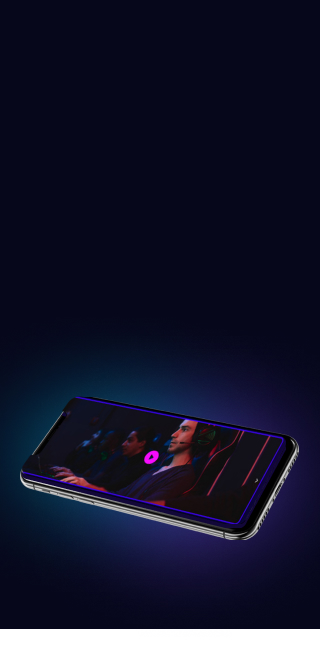
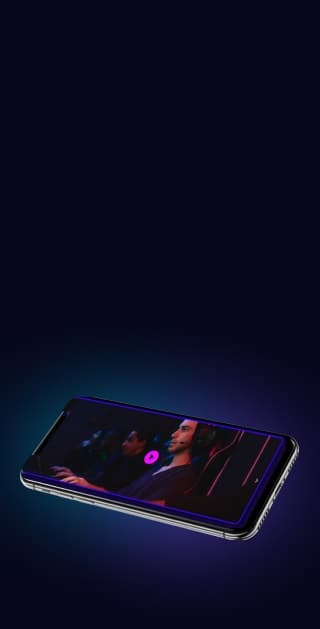
add entero-link

Changed region(s): [[0.0625, 0.6041, 0.9375, 0.876], [0.0, 0.9364, 1.0, 1.0]]

diff --git a/src/sass/_video.scss b/src/sass/_video.scss
@@ -3,10 +3,10 @@
 }
 .video__conteiner {
   margin: 0 auto;
-  padding: 0 20px;
+  padding: 40px 20px;
   height: 629px;
   background-color: #06071b;
-  background-image: url(../images/video/bg-mobile.jpg);
+  background-image: url(../images/video/bg-video-mobile.jpg);
   background-repeat: no-repeat;
   background-size: cover;
   background-position: bottom;
@@ -38,6 +38,46 @@
   font-weight: 500;
   font-size: 14px;
   line-height: 17px;
+  margin-bottom: 24px;
 
   color: #ffffff;
+}
+.entypo-social {
+  display: flex;
+  justify-content: center;
+  margin-bottom: 28px;
+  gap: 20px;
+  &__link {
+    display: flex;
+    display: inline-flex;
+    align-items: center;
+    justify-content: center;
+    fill: white;
+
+    width: 60px;
+    height: 60px;
+    border-radius: 50%;
+    background: linear-gradient(90.03deg, #00c5eb -1.97%, #b544fe 89.43%);
+    // transition: 250ms cubic-bezier(0.4, 0, 0.2, 1);
+    cursor: pointer;
+    &:hover {
+      fill: #06071b;
+      background: #06071b;
+      border: 1px solid
+        linear-gradient(90.03deg, #00c5eb -1.97%, #b544fe 89.43%);
+      outline: transparent;
+    }
+    &:focus {
+      fill: #06071b;
+      background: #06071b;
+      border: 1px solid #00c5eb;
+      outline: transparent;
+    }
+  }
+}
+// .icon {
+//   border: 1px solid #00c5eb;
+// }
+.video__image {
+  width: 100%;
 }

diff --git a/src/partials/video.html b/src/partials/video.html
@@ -7,28 +7,29 @@
       at elementum mauris. Phasellus eget nisi dapibus, ultricies nisl at,
       hendrerit risusuis ornare luctus id sollicitudin ante lobortis at.
     </p>
-    <ul>
-      <li>
+    <ul class="entypo-social">
+      <li class="entypo-social__item">
         <a
-          class="social__link"
+          class="entypo-social__link"
           href="#"
           target="_blank"
           rel="noopener noreferrer"
-          ><svg class="icon" width="20" height="20">
-            <use href="#"></use></svg
+          ><svg class="icon" width="27" height="32">
+            <use href="../src/images/video/sprite.svg#icon-ios"></use></svg
         ></a>
       </li>
-      <li>
+      <li class="entypo-social__item">
         <a
-          class="social__link"
+          class="entypo-social__link"  
           href="#"
           target="_blank"
           rel="noopener noreferrer"
-          ><svg class="icon" width="20" height="20">
-            <use href="#"></use></svg
+          ><svg class="icon" width="28" height="32">
+            <use href="../src/images/video/sprite.svg#icon-android"></use></svg
+        ></a></use></svg
         ></a>
       </li>
     </ul>
-    <img src="#" />
+      <img class="video__image" src="../src/images/video/img-iphone-video.png" alt="">
   </div>
 </section>
